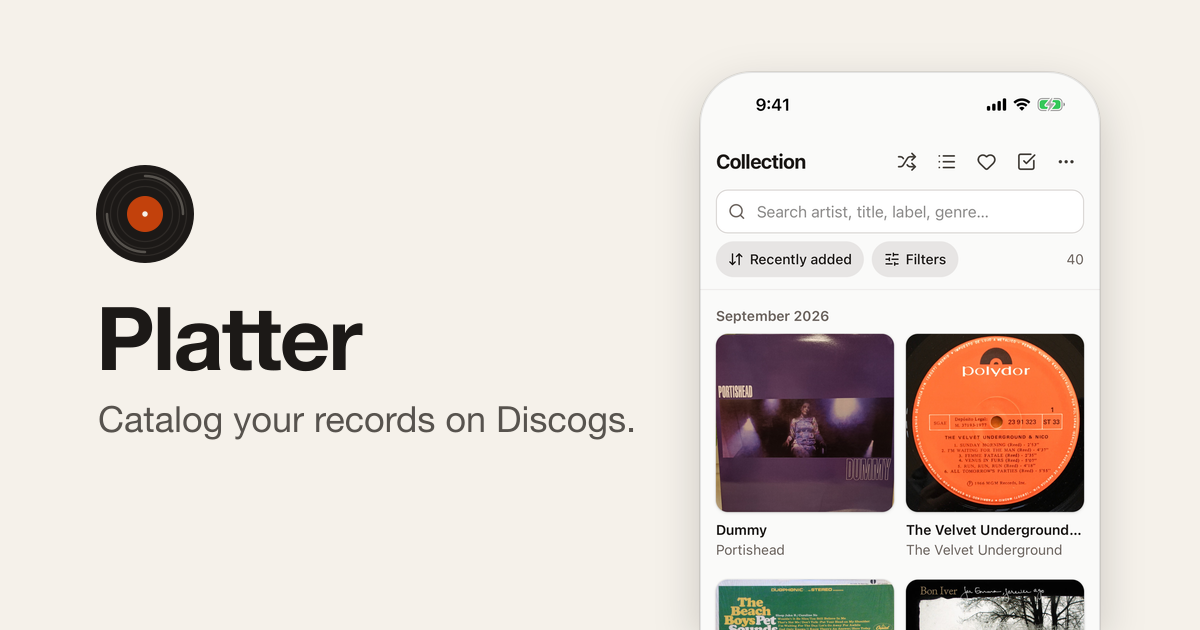
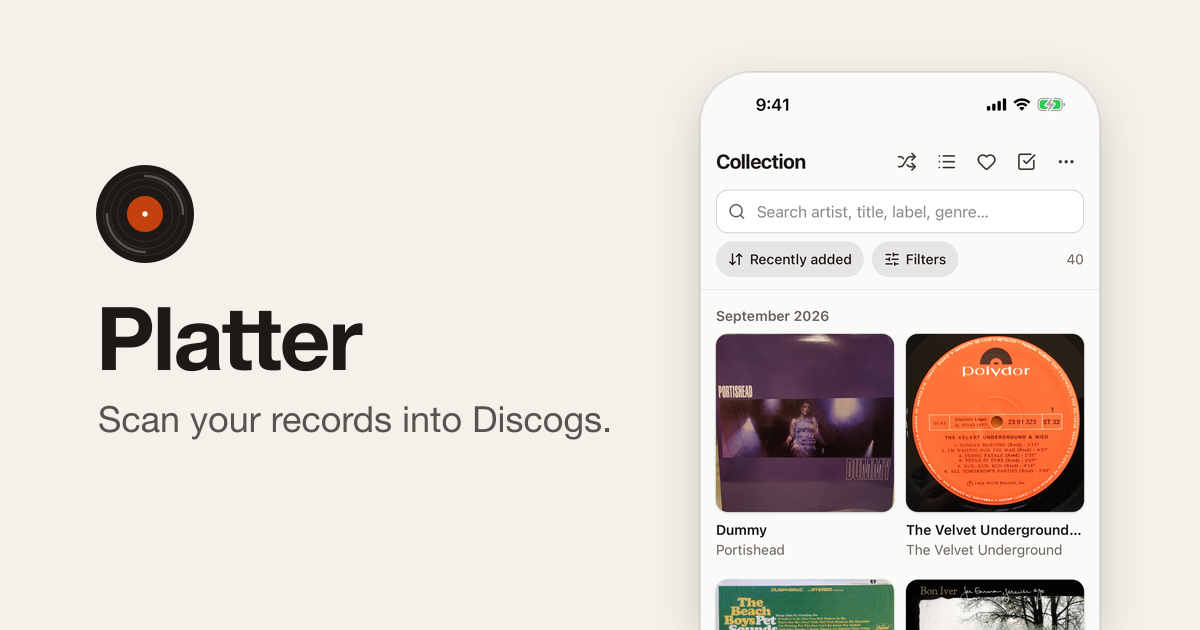
New tagline

Changed region(s): [[0.0617, 0.6333, 0.5242, 0.6937]]

diff --git a/index.html b/index.html
@@ -5,12 +5,12 @@
     <meta name="viewport" content="width=device-width, initial-scale=1, viewport-fit=cover" />
     <meta name="referrer" content="no-referrer" />
     <meta name="theme-color" content="#1c1917" />
-    <meta name="description" content="Catalog your records on Discogs. Scan a barcode and it's in your collection." />
+    <meta name="description" content="Add records to your Discogs collection by scanning their barcodes." />
     <meta property="og:type" content="website" />
     <meta property="og:url" content="https://platter.tadinada.com/" />
     <meta property="og:title" content="Platter" />
-    <meta property="og:description" content="Catalog your records on Discogs. Scan a barcode and it's in your collection." />
-    <meta property="og:image" content="https://platter.tadinada.com/og.png" />
+    <meta property="og:description" content="Add records to your Discogs collection by scanning their barcodes." />
+    <meta property="og:image" content="https://platter.tadinada.com/og.png?v=2" />
     <meta property="og:image:width" content="1200" />
     <meta property="og:image:height" content="630" />
     <meta property="og:image:alt" content="Platter showing a record collection on a phone" />

diff --git a/src/screens/Welcome.tsx b/src/screens/Welcome.tsx
@@ -35,11 +35,8 @@ export function Welcome({ error }: { error?: string }) {
         <div className="flex w-full max-w-sm flex-col items-center text-center">
           <Disc3 size={56} strokeWidth={1.5} className="text-accent" aria-hidden />
           <h1 className="mt-4 text-4xl font-bold tracking-tight">Platter</h1>
-          <p className="mt-2 text-stone-500">Catalog your records on Discogs.</p>
-          <p className="mt-4 text-sm text-stone-500">
-            Scan a barcode and the record goes into your Discogs collection. Platter also keeps track of what your records are worth and how
-            often you play them.
-          </p>
+          <p className="mt-2 text-stone-500">Scan your records into Discogs.</p>
+          <p className="mt-4 text-sm text-stone-500">It also keeps track of what your records are worth and how often you play them.</p>
 
           <div className="mt-10 w-full space-y-3 text-left">
             {(startError ?? error) && <Notice tone="error">{startError ?? error}</Notice>}

diff --git a/vite.config.ts b/vite.config.ts
@@ -14,7 +14,7 @@ export default defineConfig({
       manifest: {
         name: 'Platter',
         short_name: 'Platter',
-        description: "Catalog your records on Discogs. Scan a barcode and it's in your collection.",
+        description: 'Add records to your Discogs collection by scanning their barcodes.',
         theme_color: '#1c1917',
         background_color: '#1c1917',
         display: 'standalone',
